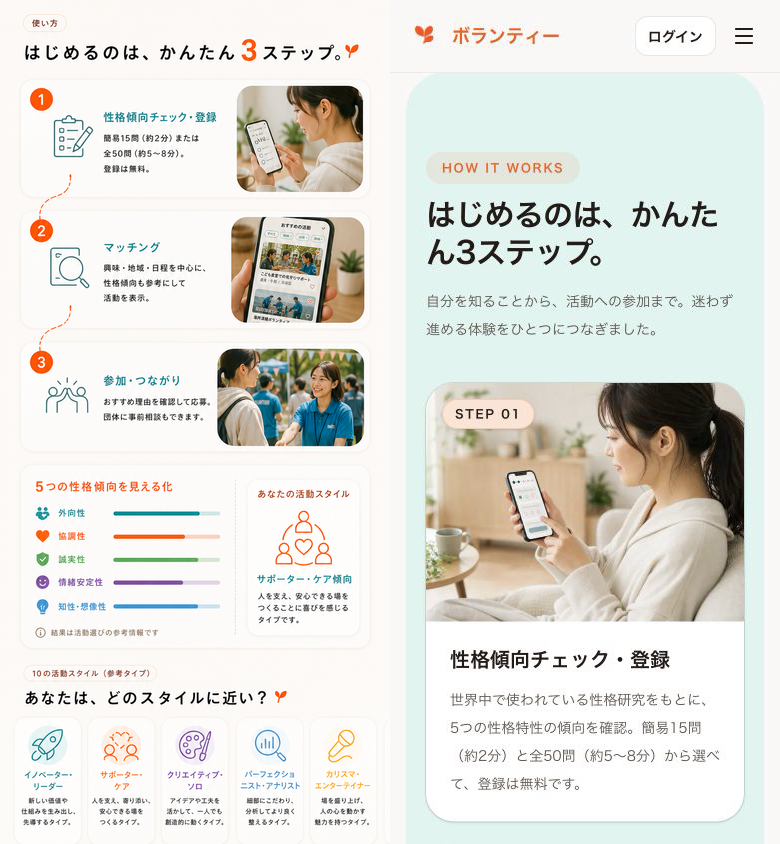
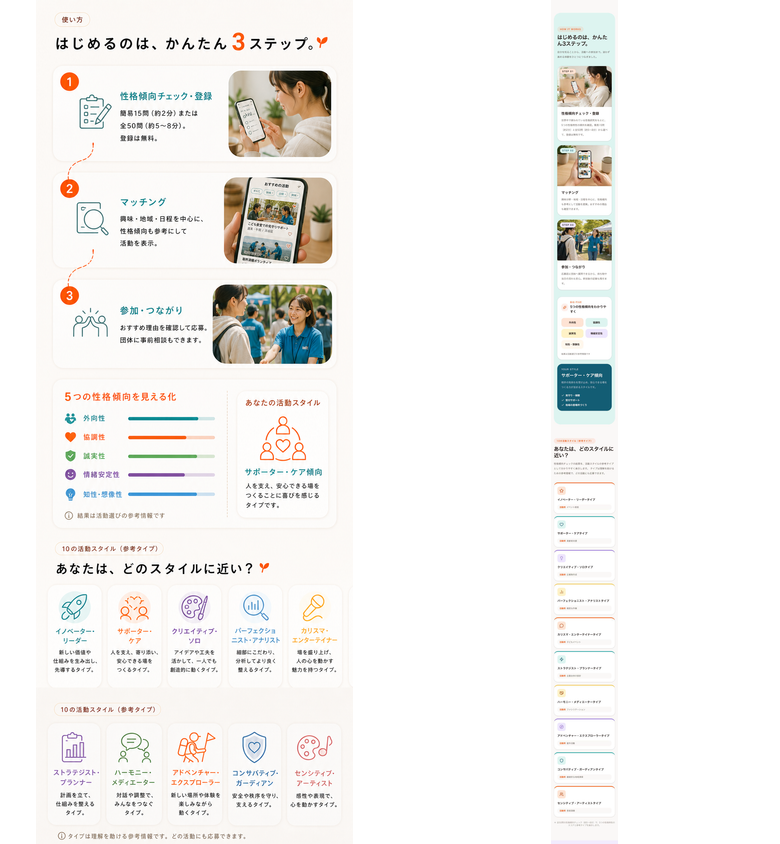
fix: LPの配色コントラストと比較証跡を修正

diff --git a/app/src/app/components/PublicHeaderNavigation.tsx b/app/src/app/components/PublicHeaderNavigation.tsx
@@ -18,7 +18,7 @@ export function PublicHeaderNavigation() {
     <div className="flex items-center gap-2">
       <Link
         href="/login"
-        className="inline-flex h-10 items-center gap-2 rounded-xl border border-card-border bg-white px-3 text-sm font-bold text-text-dark transition-colors hover:border-primary/40 hover:text-primary-dark"
+        className="inline-flex h-10 items-center gap-2 rounded-xl border border-card-border bg-white px-3 text-sm font-bold text-text-dark transition-colors hover:border-primary/40 hover:text-text-dark"
       >
         <LogIn className="hidden size-4 sm:block" aria-hidden />
         ログイン
@@ -50,7 +50,7 @@ export function PublicHeaderNavigation() {
                 key={item.href}
                 href={item.href}
                 onClick={() => setMenuOpen(false)}
-                className="rounded-2xl px-4 py-3 text-sm font-bold text-text-dark transition-colors hover:bg-primary/5 hover:text-primary-dark"
+                className="rounded-2xl px-4 py-3 text-sm font-bold text-text-dark transition-colors hover:bg-primary/5 hover:text-text-dark"
               >
                 {item.label}
               </a>

diff --git a/app/src/app/components/lp/UsageSection.tsx b/app/src/app/components/lp/UsageSection.tsx
@@ -75,11 +75,11 @@ export function UsageSection() {
       <div className="mt-10 grid gap-6 lg:grid-cols-[1.25fr_0.75fr]">
         <div className="rounded-[28px] bg-white p-6 shadow-sm ring-1 ring-card-border sm:p-8">
           <div className="mb-6 flex items-center gap-3">
-            <span className="flex size-11 items-center justify-center rounded-2xl bg-primary/10 text-primary-dark">
+            <span className="flex size-11 items-center justify-center rounded-2xl bg-primary/10 text-text-dark">
               <Sparkles className="size-5" aria-hidden />
             </span>
             <div>
-              <p className="text-xs font-bold tracking-[0.14em] text-primary-dark">BIG FIVE</p>
+              <p className="text-xs font-bold tracking-[0.14em] text-text-dark">BIG FIVE</p>
               <h3 className="mt-1 text-lg font-black text-text-dark">5つの性格傾向をわかりやすく</h3>
             </div>
           </div>

diff --git a/app/src/app/components/lp/DiagnosisTypesCarousel.tsx b/app/src/app/components/lp/DiagnosisTypesCarousel.tsx
@@ -51,7 +51,7 @@ export function DiagnosisTypesCarousel() {
   return (
     <section id="styles" className="relative -mx-4 bg-pop-yellow-soft/60 px-4 py-20 sm:-mx-6 sm:px-6 sm:py-28 lg:mx-0 lg:rounded-[40px] lg:px-10">
       <div className="mb-8 max-w-2xl">
-        <p className="mb-3 inline-flex rounded-full bg-primary/10 px-4 py-2 text-xs font-bold tracking-[0.16em] text-primary-dark">
+        <p className="mb-3 inline-flex rounded-full bg-primary/10 px-4 py-2 text-xs font-bold tracking-[0.16em] text-text-dark">
           10の活動スタイル
         </p>
         <h2 className="text-3xl font-black tracking-tight text-text-dark sm:text-4xl">

diff --git a/app/src/app/components/lp/LPSectionHeading.tsx b/app/src/app/components/lp/LPSectionHeading.tsx
@@ -13,7 +13,7 @@ interface LPSectionHeadingProps {
 export function LPSectionHeading({ eyebrow, title, description }: LPSectionHeadingProps) {
   return (
     <div className="mb-10 text-left sm:mb-12">
-      <p className="mb-3 inline-flex rounded-full bg-primary/10 px-4 py-2 text-xs font-bold tracking-[0.14em] text-primary-dark">
+      <p className="mb-3 inline-flex rounded-full bg-primary/10 px-4 py-2 text-xs font-bold tracking-[0.14em] text-text-dark">
         {eyebrow}
       </p>
       <h2 className="text-3xl font-black leading-tight tracking-tight text-text-dark sm:text-4xl">

diff --git a/app/src/app/components/Header.tsx b/app/src/app/components/Header.tsx
@@ -149,7 +149,7 @@ export async function Header({ variant = "default" }: HeaderProps = {}) {
               <a
                 key={item.href}
                 href={item.href}
-                className="rounded-lg px-3 py-1.5 text-sm font-medium text-text-body transition-colors hover:bg-primary/10 hover:text-primary-dark"
+                className="rounded-lg px-3 py-1.5 text-sm font-medium text-text-body transition-colors hover:bg-primary/10 hover:text-text-dark"
               >
                 {item.label}
               </a>
